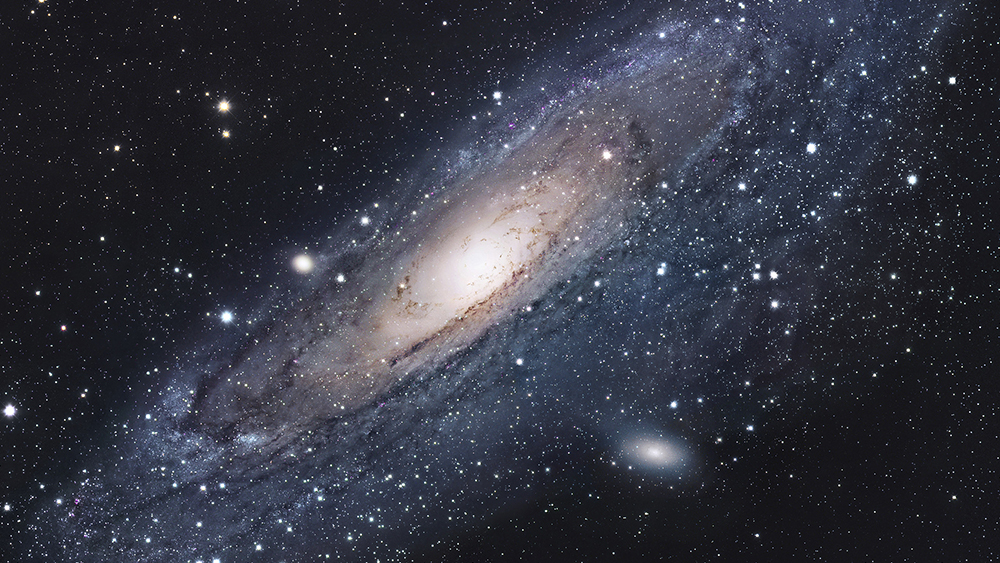
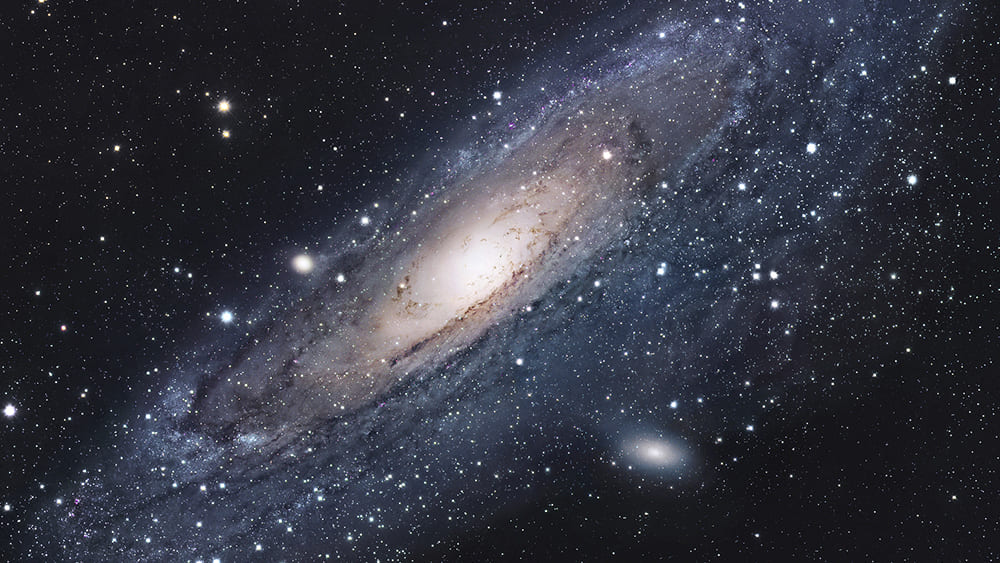
压缩大型图片

diff --git a/_posts/领域驱动设计DDD/2022-03-14-殷浩详解DDD系列 第四讲 - 领域层设计规范.md b/_posts/领域驱动设计DDD/2022-03-14-殷浩详解DDD系列 第四讲 - 领域层设计规范.md
@@ -15,7 +15,7 @@ author:
 
 在一个DDD架构设计中，领域层的设计合理性会直接影响整个架构的代码结构以及应用层、基础设施层的设计。但是领域层设计又是有挑战的任务，特别是在一个业务逻辑相对复杂应用中，每一个业务规则是应该放在Entity、ValueObject 还是 DomainService是值得用心思考的，既要避免未来的扩展性差，又要确保不会过度设计导致复杂性。今天我用一个相对轻松易懂的领域做一个案例演示，但在实际业务应用中，无论是交易、营销还是互动，都可以用类似的逻辑来实现。
 
-## 一 初探龙与魔法的世界架构
+# 一 初探龙与魔法的世界架构
 
 ## 1 背景和规则
 
@@ -317,7 +317,7 @@ public abstract class Monster extends Movable;
 
 在讲DDD的解法前，我们先去看看一套游戏里最近比较火的架构设计，Entity-Component-System（ECS）是如何实现的。
 
-## 二 Entity-Component-System（ECS）架构简介
+# 二 Entity-Component-System（ECS）架构简介
 
 ## 1 ECS介绍
 
@@ -386,7 +386,7 @@ public void test() {
 
 虽然ECS在游戏界已经开始崭露头角，我发现ECS架构目前还没有在哪个大型商业应用中被使用过。原因可能很多，包括ECS比较新大家还不了解、缺少商业成熟可用的框架、程序员们还不够能适应从写逻辑脚本到写组件的思维转变等，但我认为其最大的一个问题是ECS为了提升性能，强调了数据/状态（State）和行为（Behaivor）分离，并且为了降低GC成本，直接操作数据，走到了一个极端。而在商业应用中，数据的正确性、一致性和健壮性应该是最高的优先级，而性能只是锦上添花的东西，所以ECS很难在商业场景里带来特别大的好处。但这不代表我们不能借鉴一些ECS的突破性思维，包括组件化、跨对象行为的抽离、以及数据驱动模式，而这些在DDD里也能很好的用起来。
 
-## 三 基于DDD架构的一种解法
+# 三 基于DDD架构的一种解法
 
 ## 1 领域对象
 
@@ -754,7 +754,7 @@ public void testMovement() {
 
 在这里MovementSystem就是一个相对独立的Domain Service，通过对Movable的组件化，实现了类似代码的集中化、以及一些通用依赖/配置的中心化（如X、Y边界等）。
 
-## 四 DDD领域层的一些设计规范
+# 四 DDD领域层的一些设计规范
 
 上面我主要针对同一个例子对比了OOP、ECS和DDD的3种实现，比较如下：
 
@@ -949,7 +949,7 @@ Policy或者Strategy设计模式是一个通用的设计模式，但是在DDD架
 
 除了本文里静态注入多个Policy以及手动排优先级之外，在日常开发中经常能见到通过Java的SPI机制或类SPI机制注册Policy，以及通过不同的Priority方案对Policy进行排序，在这里就不作太多的展开了。
 
-## 五 副作用的处理方法 - 领域事件
+# 五 副作用的处理方法 - 领域事件
 
 在上文中，有一种类型的领域规则被我刻意忽略了，那就是”副作用“。一般的副作用发生在核心领域模型状态变更后，同步或者异步对另一个对象的影响或行为。在这个案例里，我们可以增加一个副作用规则：
 
@@ -1123,7 +1123,7 @@ public void test() {
 
 也许未来会有一个框架能让我们既不依赖全局Singleton，也不需要显性去处理事件，但目前的方案基本都有或多或少的缺陷，大家在使用中可以注意。
 
-## 六 总结
+# 六 总结
 
 在真实的业务逻辑里，我们的领域模型或多或少的都有一定的“特殊性”，如果100%的要符合DDD规范可能会比较累，所以最主要的是梳理一个对象行为的影响面，然后作出设计决策，即：
 

diff --git a/_posts/小技巧/maven提升下载速度——更换国内源.md b/_posts/小技巧/maven提升下载速度——更换国内源.md
@@ -1,0 +1,56 @@
+## 配置方法
+
+### Maven 配置
+
+打开 Maven 的配置文件(windows机器一般在maven安装目录的conf/settings.xml)，在`<mirrors></mirrors>`标签中添加 mirror 子节点:
+
+```js
+<mirror>
+    <id>aliyunmaven</id>
+    <mirrorOf>*</mirrorOf>
+    <name>阿里云公共仓库</name>
+    <url>https://maven.aliyun.com/repository/public</url>
+</mirror>
+```
+
+如果想使用其它代理仓库,可在`<repositories></repositories>`节点中加入对应的仓库使用地址。以使用spring代理仓为例：
+
+```js
+<repository>
+    <id>spring</id>
+    <url>https://maven.aliyun.com/repository/spring</url>
+    <releases>
+        <enabled>true</enabled>
+    </releases>
+    <snapshots>
+        <enabled>true</enabled>
+    </snapshots>
+</repository>
+```
+
+### gradle 配置
+
+在 build.gradle 文件中加入以下代码:
+
+```js
+allprojects {
+    repositories {
+        maven { url 'https://maven.aliyun.com/repository/public/' }
+        mavenLocal()
+        mavenCentral()
+    }
+}
+```
+
+如果想使用 maven.aliyun.com 提供的其它代理仓，以使用 spring 仓为例，代码如下:
+
+```js
+allprojects {
+    repositories {
+        maven { url 'https://maven.aliyun.com/repository/public/' }
+        maven { url 'https://maven.aliyun.com/repository/spring/'}
+        mavenLocal()
+        mavenCentral()
+    }
+}
+```
